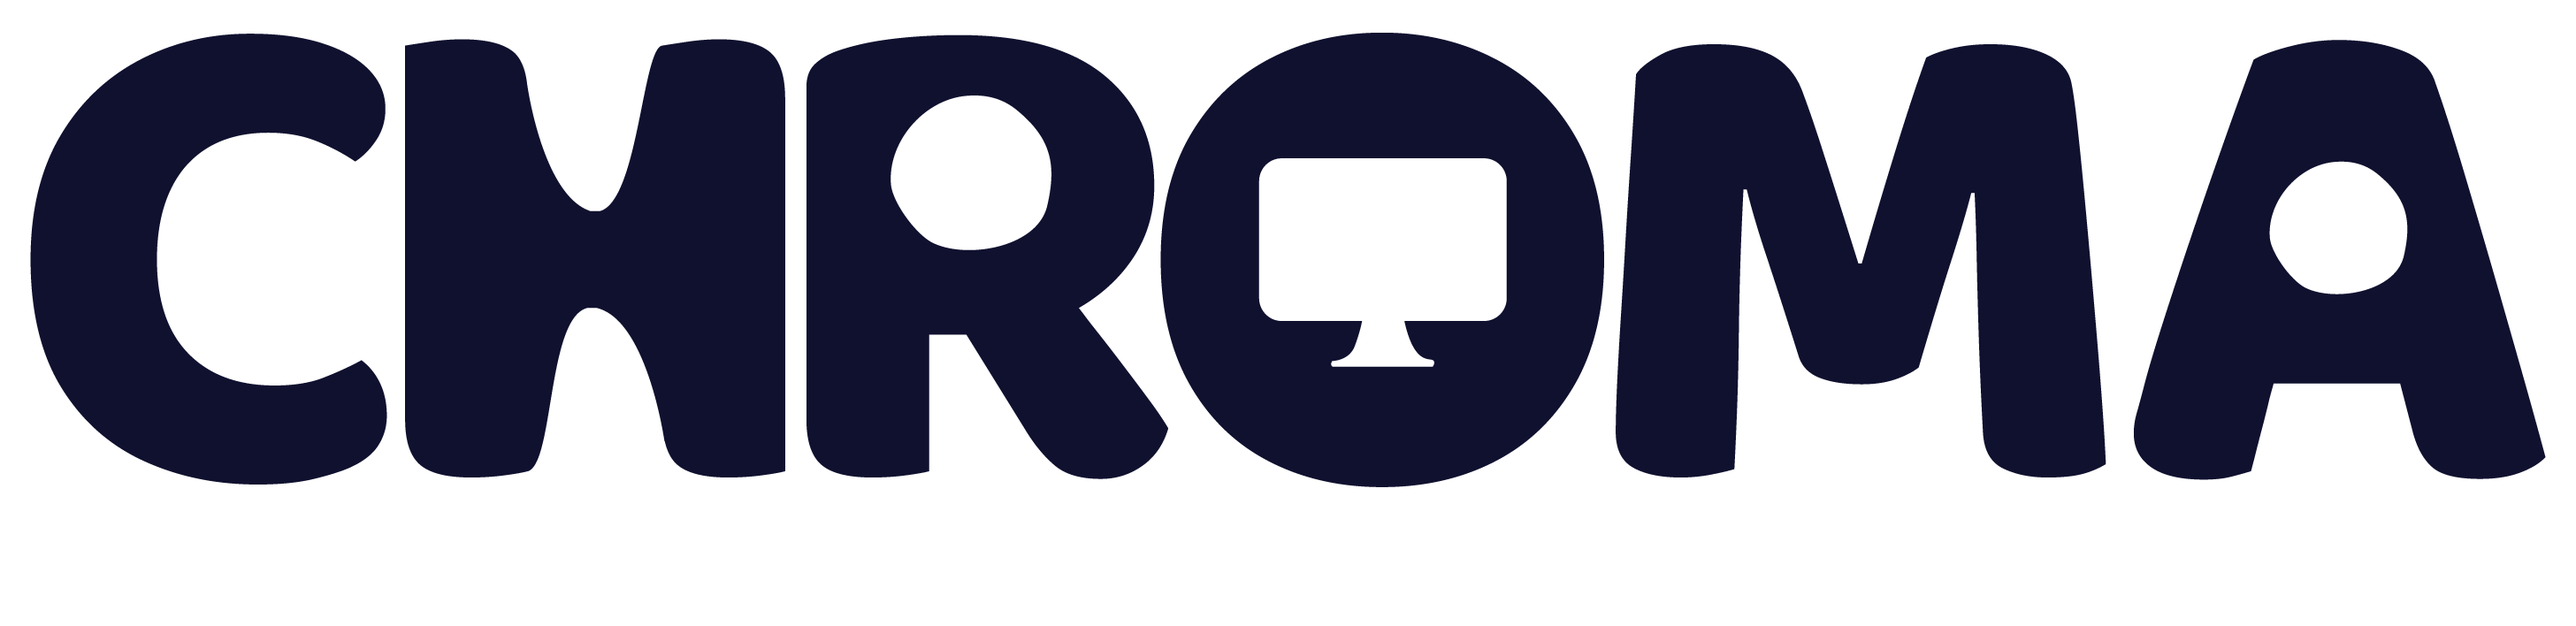
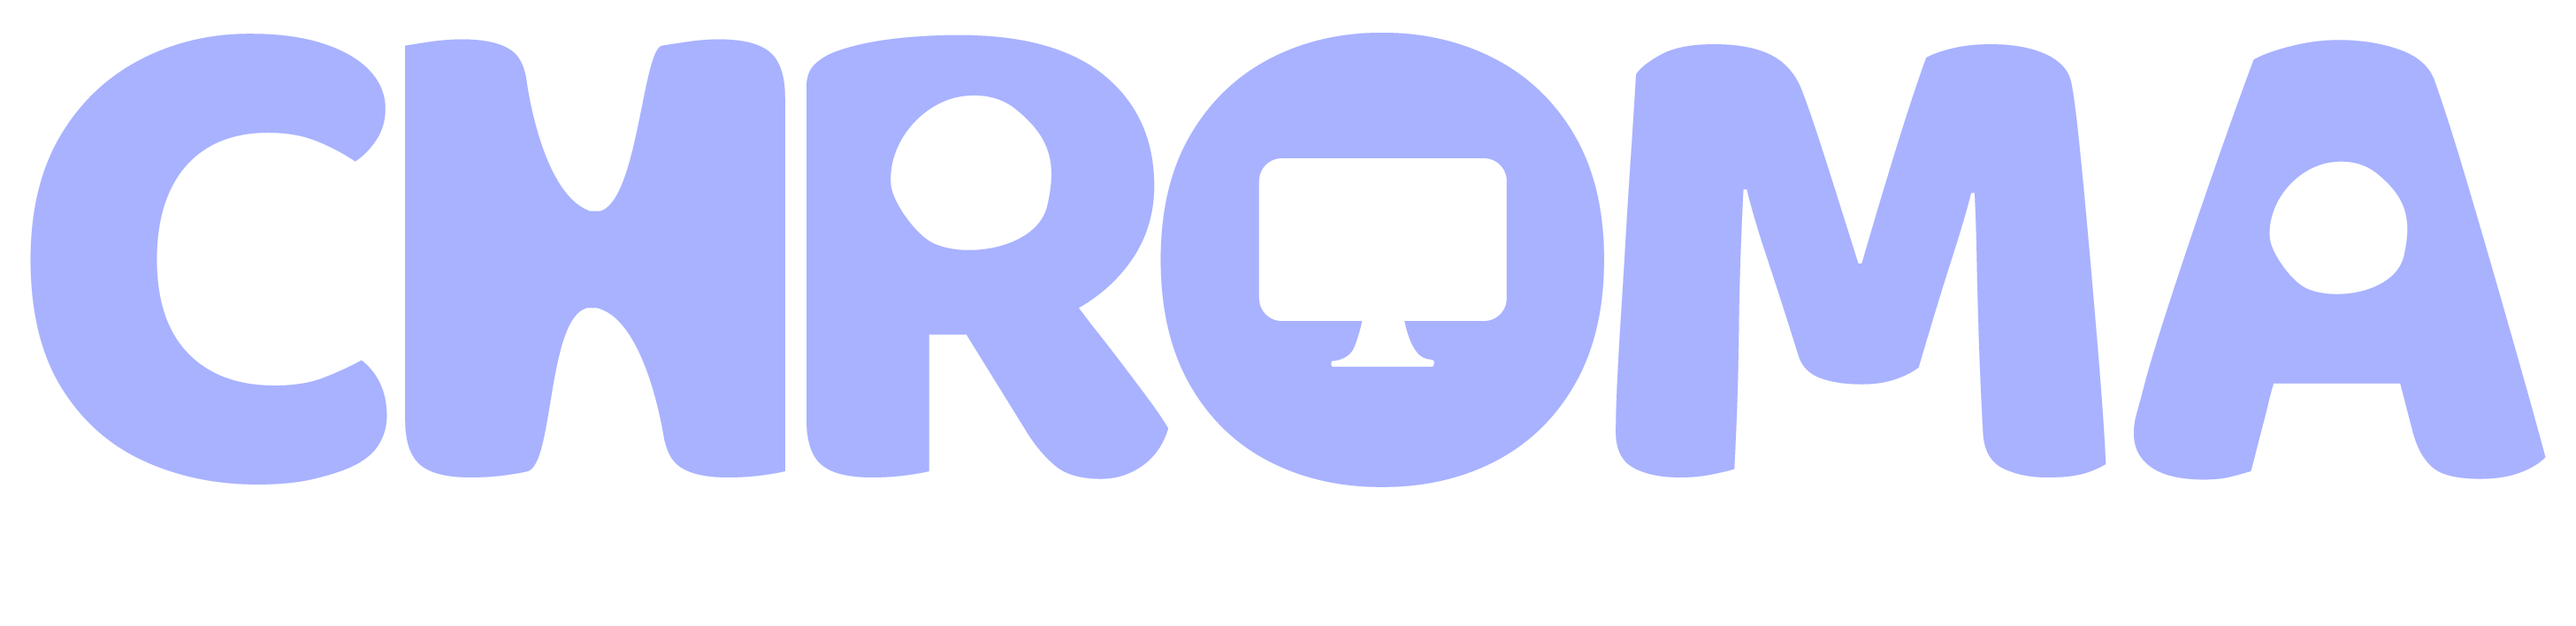
v0

diff --git a/css/style.css b/css/style.css
@@ -1,53 +1,56 @@
 /* ====================== Variables Globales ====================== */
 :root {
   --primary-color: #7c90a0;
-  --secondary-color: #120d31;
+  --secondary-color: #120d3180;
   --accent-color: #0f4c81;
   --text-color: #e0e0e0;
   --light-color: #fff;
   --dark-color: #121212;
-  --darker-color: #080808;
+  --darker-color: #08080887;
   --grey-color: #222;
   --light-grey: #333;
   --card-bg: #1a1a1a;
   --secondary-hover: #272741;
+  --tab-hover: #7c90a09f;
 }
 
 /* ====================== Thèmes ====================== */
 /* Thème Esport */
 .esport-theme {
-  --primary-color: #ff0000; /* Exemple : rouge vif */
-  --secondary-color: #000000; /* Exemple : noir */
-  --accent-color: #00ff00; /* Exemple : vert fluo */
+  --primary-color: #a8b2ff;
+  --secondary-color: #0000004a;
+  --accent-color: #656565;
   --text-color: #ffffff;
   --light-color: #f0f0f0;
   --dark-color: #1b1b1b;
   --darker-color: #000000;
-  --grey-color: #292929;
-  --light-grey: #555;
+  --grey-color: #3b3b3b;
+  --light-grey: #494949;
   --card-bg: #2a2a2a;
   --secondary-hover: #272741;
+  --tab-hover: #a8b2ff85;
 }
 
 /* Thème Café */
 .cafe-theme {
   --primary-color: #b55119; /* Exemple : brun-café */
-  --secondary-color: #fda15d;
+  --secondary-color: #fda05d8d;
   --accent-color: #f8b195;
   --text-color: #ffffff;
   --light-color: #f5f5f5;
-  --dark-color: #3f3f3f;
+  --dark-color: #2a2a2a;
   --darker-color: #2c2c2c;
   --grey-color: #444;
   --light-grey: #555;
   --card-bg: #362c2a;
   --secondary-hover: #de8d54;
+  --tab-hover: #b55219a1;
 }
 
 /* Thème K-pop */
 .kpop-theme {
   --primary-color: #fda15d; /* Exemple : saumon */
-  --secondary-color: #b55119;
+  --secondary-color: #b5521985;
   --accent-color: #ff1493; /* Exemple : rose vif */
   --text-color: #ffffff;
   --light-color: #f8f8ff;
@@ -57,6 +60,7 @@
   --light-grey: #484848;
   --card-bg: #1a1a1a;
   --secondary-hover: #8e4317;
+  --tab-hover: #fda05da5;
 }
 
 /* ====================== Reset et Global ====================== */
@@ -147,6 +151,8 @@ header.scrolled {
   transform: translateY(10px) scale(0.9);
   border-radius: 999px;
   padding: 10px 5%;
+  background-color: rgba(18, 18, 18, 0.689); /* Un peu de transparence */
+  backdrop-filter: blur(8px); /* Effet de flou */
 }
 
 .logo img {
@@ -694,7 +700,7 @@ nav ul li a.active:after {
 
 .account-tabs .tab:hover {
   transform: scale(1.02);
-  background-color: rgba(124, 144, 160, 0.2);
+  background-color: var(--tab-hover);
   transition: transform 0.3s ease, background-color 0.3s ease;
 }
 

diff --git a/js/script.js b/js/script.js
@@ -267,6 +267,13 @@ document.addEventListener("DOMContentLoaded", function () {
       let currentTheme = appliedTheme;
       document.getElementById("selected-theme").value = currentTheme;
 
+      // Ajout de la bordure sur l'option active au chargement
+      themeOptions.forEach((option) => {
+        if (option.getAttribute("data-theme") === currentTheme) {
+          option.style.border = "2px solid #fff";
+        }
+      });
+
       if (themeOptions.length > 0) {
         themeOptions.forEach((option) => {
           option.addEventListener("click", function () {
@@ -309,6 +316,7 @@ document.addEventListener("DOMContentLoaded", function () {
             document.body.classList.add(currentTheme + "-theme");
           });
         });
+
         const selectedThemeInput = document.getElementById("selected-theme");
         if (!selectedThemeInput.value) {
           const defaultOption = Array.from(themeOptions).find(
